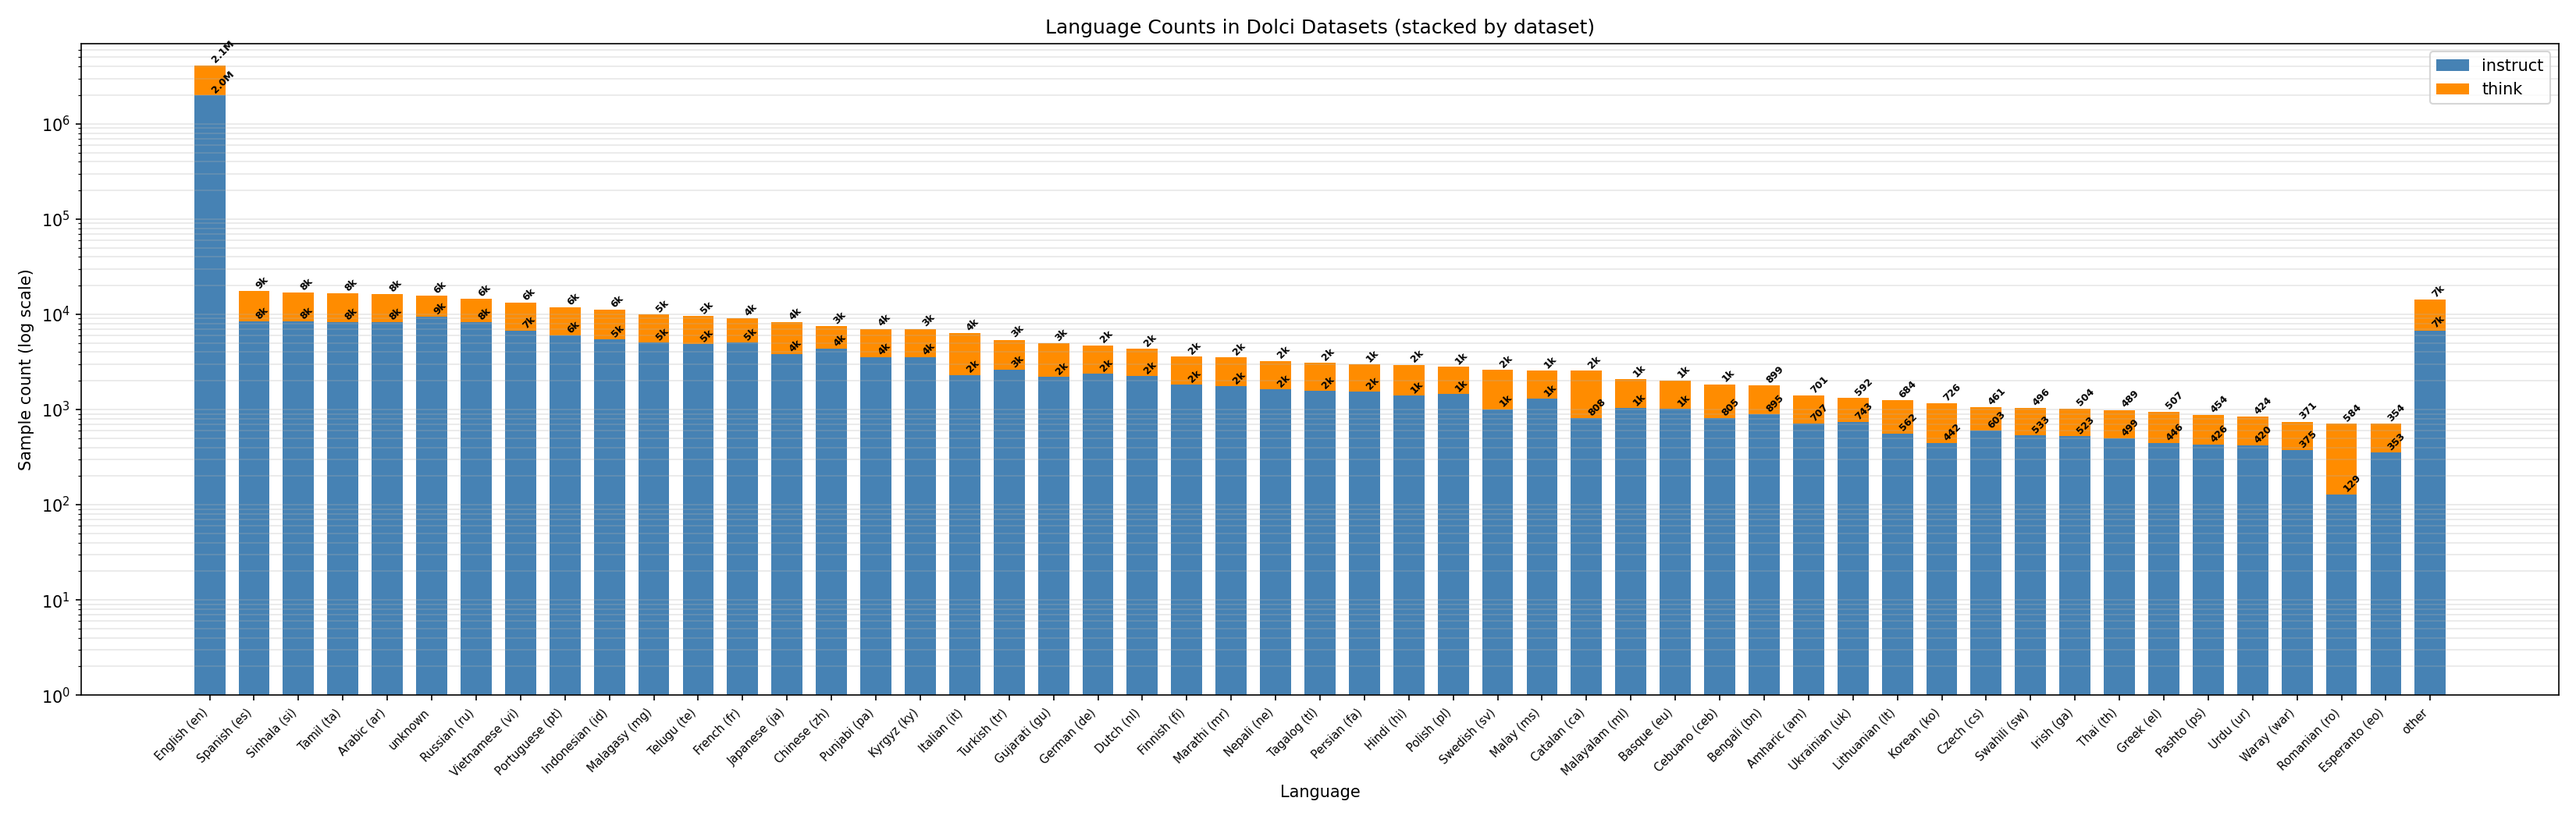
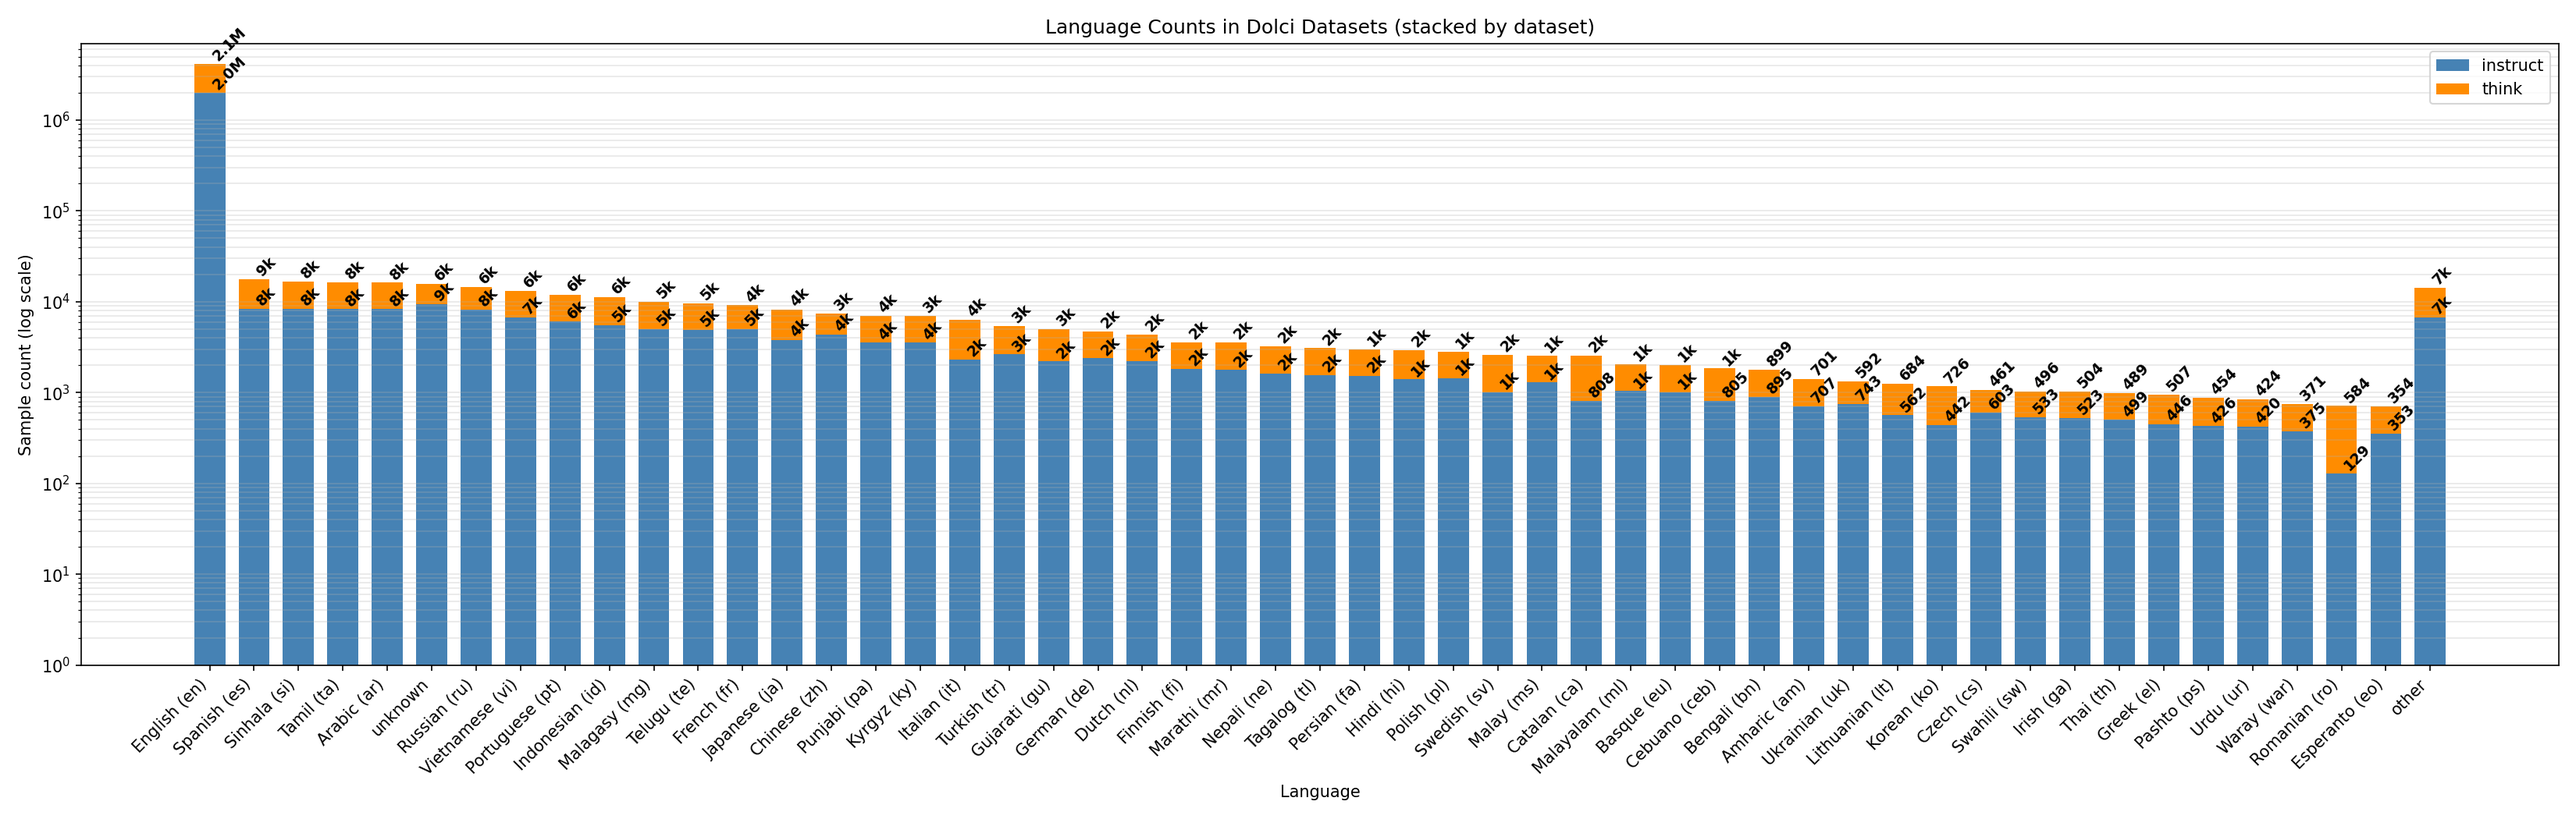
Increase font sizes in Dolci language distribution plots (6/7pt -> 9/10pt)

diff --git a/oellm/experiments/dolci_distribution/scripts/detect_language_distribution.py b/oellm/experiments/dolci_distribution/scripts/detect_language_distribution.py
@@ -302,7 +302,7 @@ def _add_bar_labels(ax, bars, pcts, min_y=None):
                 label,
                 ha="left",
                 va="bottom",
-                fontsize=7,
+                fontsize=9,
                 fontweight="bold",
                 rotation=45,
             )
@@ -360,7 +360,7 @@ def plot_language_distribution(
                     bot + pct,
                     label,
                     ha="left", va="bottom",
-                    fontsize=6, fontweight="bold", rotation=45,
+                    fontsize=9, fontweight="bold", rotation=45,
                 )
         bottom += pcts
 
@@ -369,7 +369,7 @@ def plot_language_distribution(
     ax.set_ylabel("Percentage of each dataset (%, log scale)")
     ax.set_title("Language Distribution in Dolci Datasets (stacked by dataset)")
     ax.set_xticks(x)
-    ax.set_xticklabels([lang_label(l) for l in display_langs], rotation=45, ha="right", fontsize=7)
+    ax.set_xticklabels([lang_label(l) for l in display_langs], rotation=45, ha="right", fontsize=10)
     ax.legend()
     ax.grid(axis="y", alpha=0.3, which="both")
     ax.set_ylim(bottom=0.005)
@@ -410,7 +410,7 @@ def plot_language_distribution(
                     bot + cnt,
                     label,
                     ha="left", va="bottom",
-                    fontsize=6, fontweight="bold", rotation=45,
+                    fontsize=9, fontweight="bold", rotation=45,
                 )
         bottom += counts
 
@@ -419,7 +419,7 @@ def plot_language_distribution(
     ax.set_ylabel("Sample count (log scale)")
     ax.set_title("Language Counts in Dolci Datasets (stacked by dataset)")
     ax.set_xticks(x)
-    ax.set_xticklabels([lang_label(l) for l in display_langs], rotation=45, ha="right", fontsize=7)
+    ax.set_xticklabels([lang_label(l) for l in display_langs], rotation=45, ha="right", fontsize=10)
     ax.legend()
     ax.grid(axis="y", alpha=0.3, which="both")
     ax.set_ylim(bottom=1)
@@ -489,7 +489,7 @@ def plot_per_group_distribution(
         ax.set_yscale("log")
         ax.set_ylim(bottom=min_y)
         ax.set_xticks(range(len(langs)))
-        ax.set_xticklabels([lang_label(l) for l in langs], rotation=45, ha="right", fontsize=7)
+        ax.set_xticklabels([lang_label(l) for l in langs], rotation=45, ha="right", fontsize=10)
         ax.grid(axis="y", alpha=0.3, which="both")
         plt.tight_layout()
         fig.savefig(
